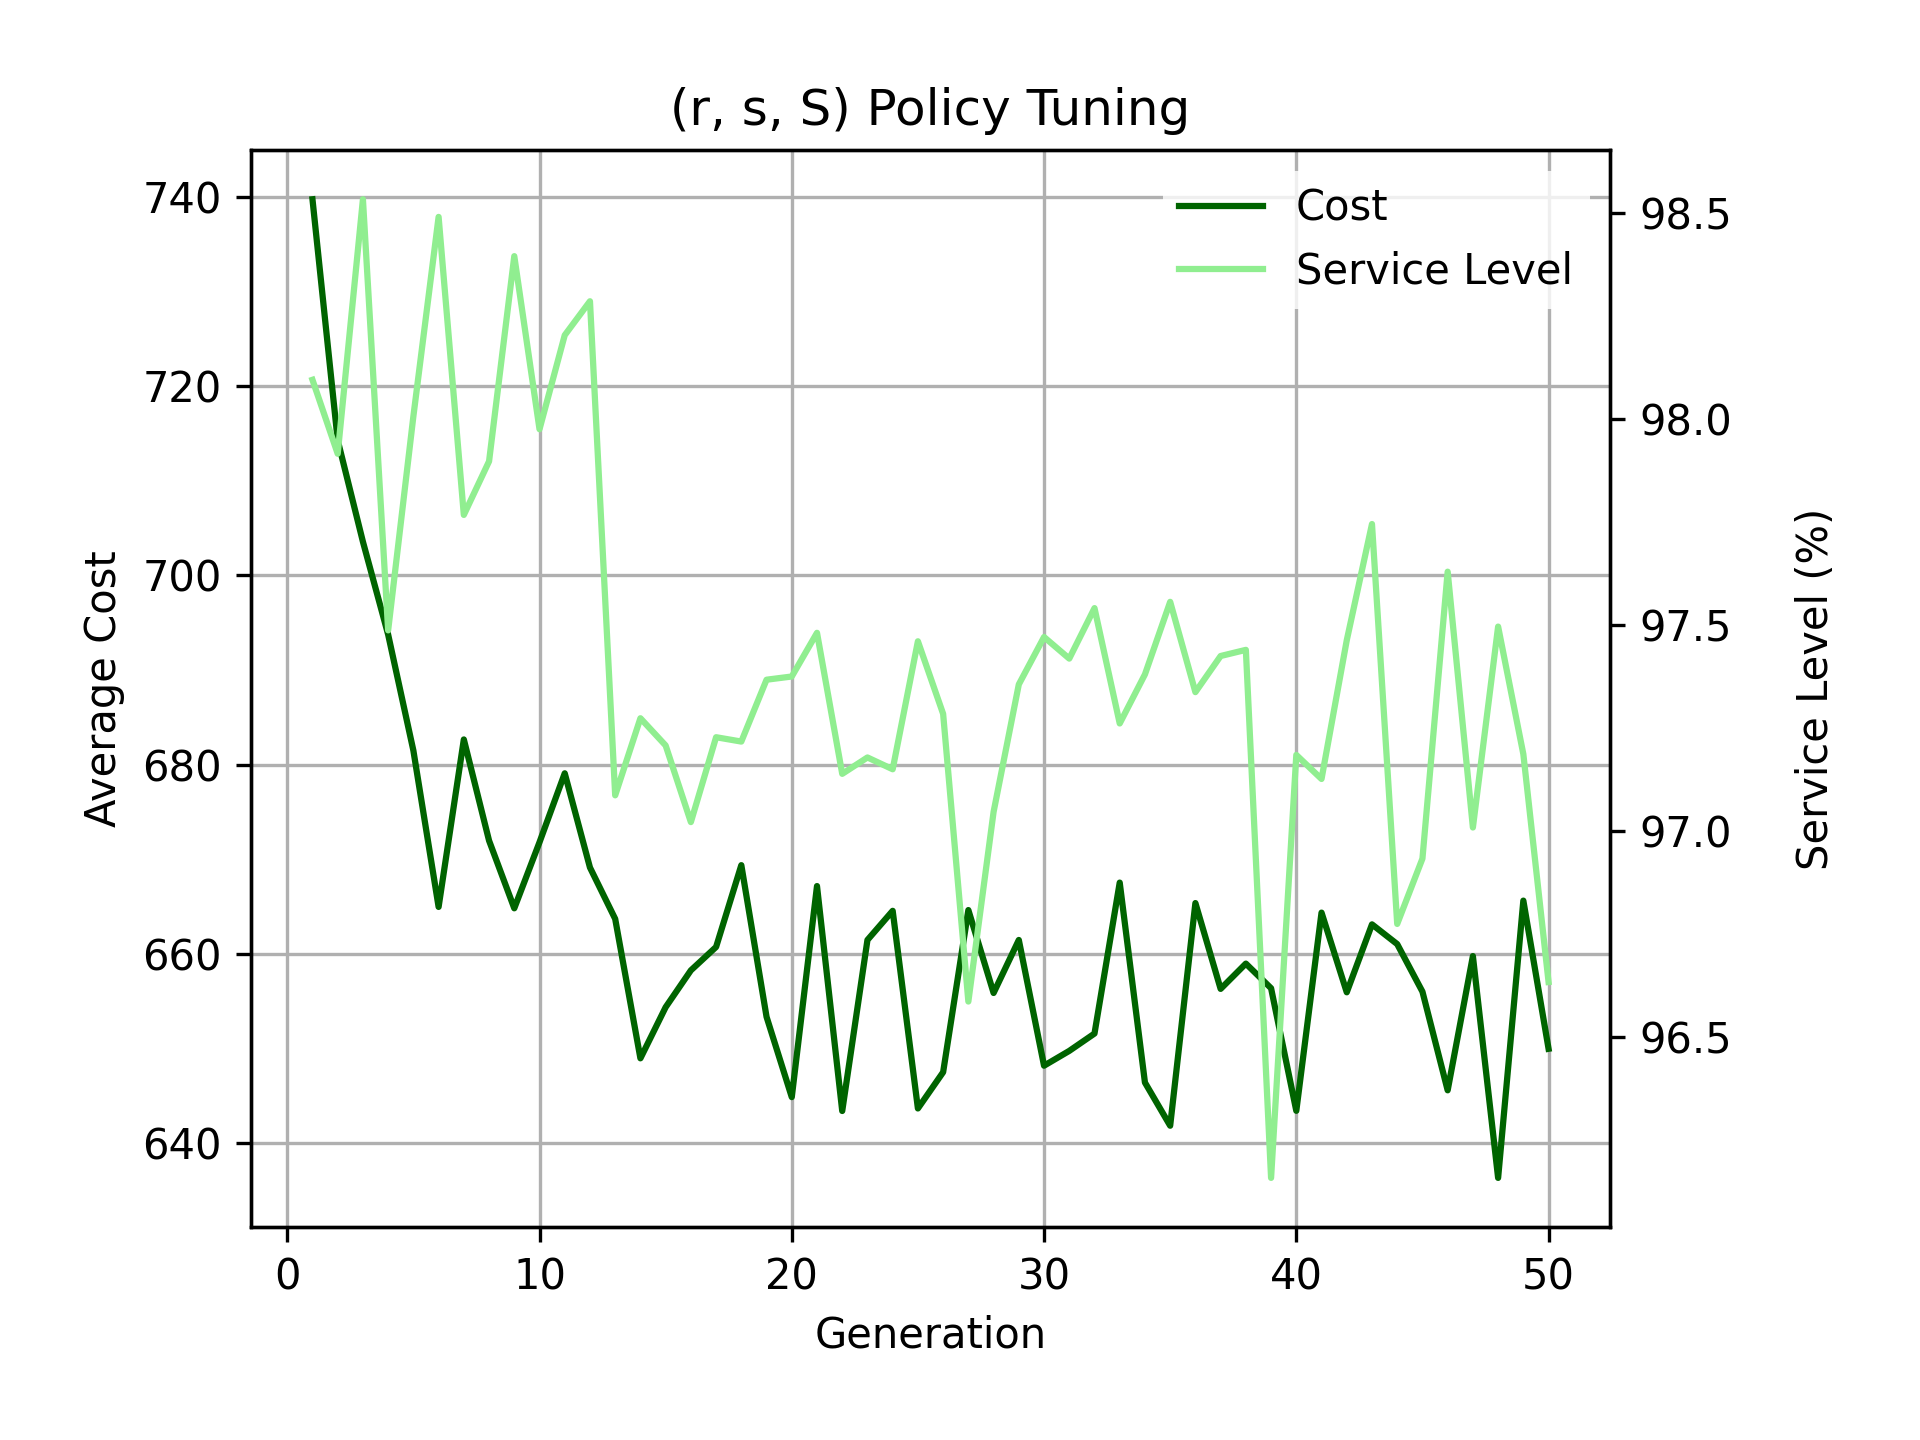
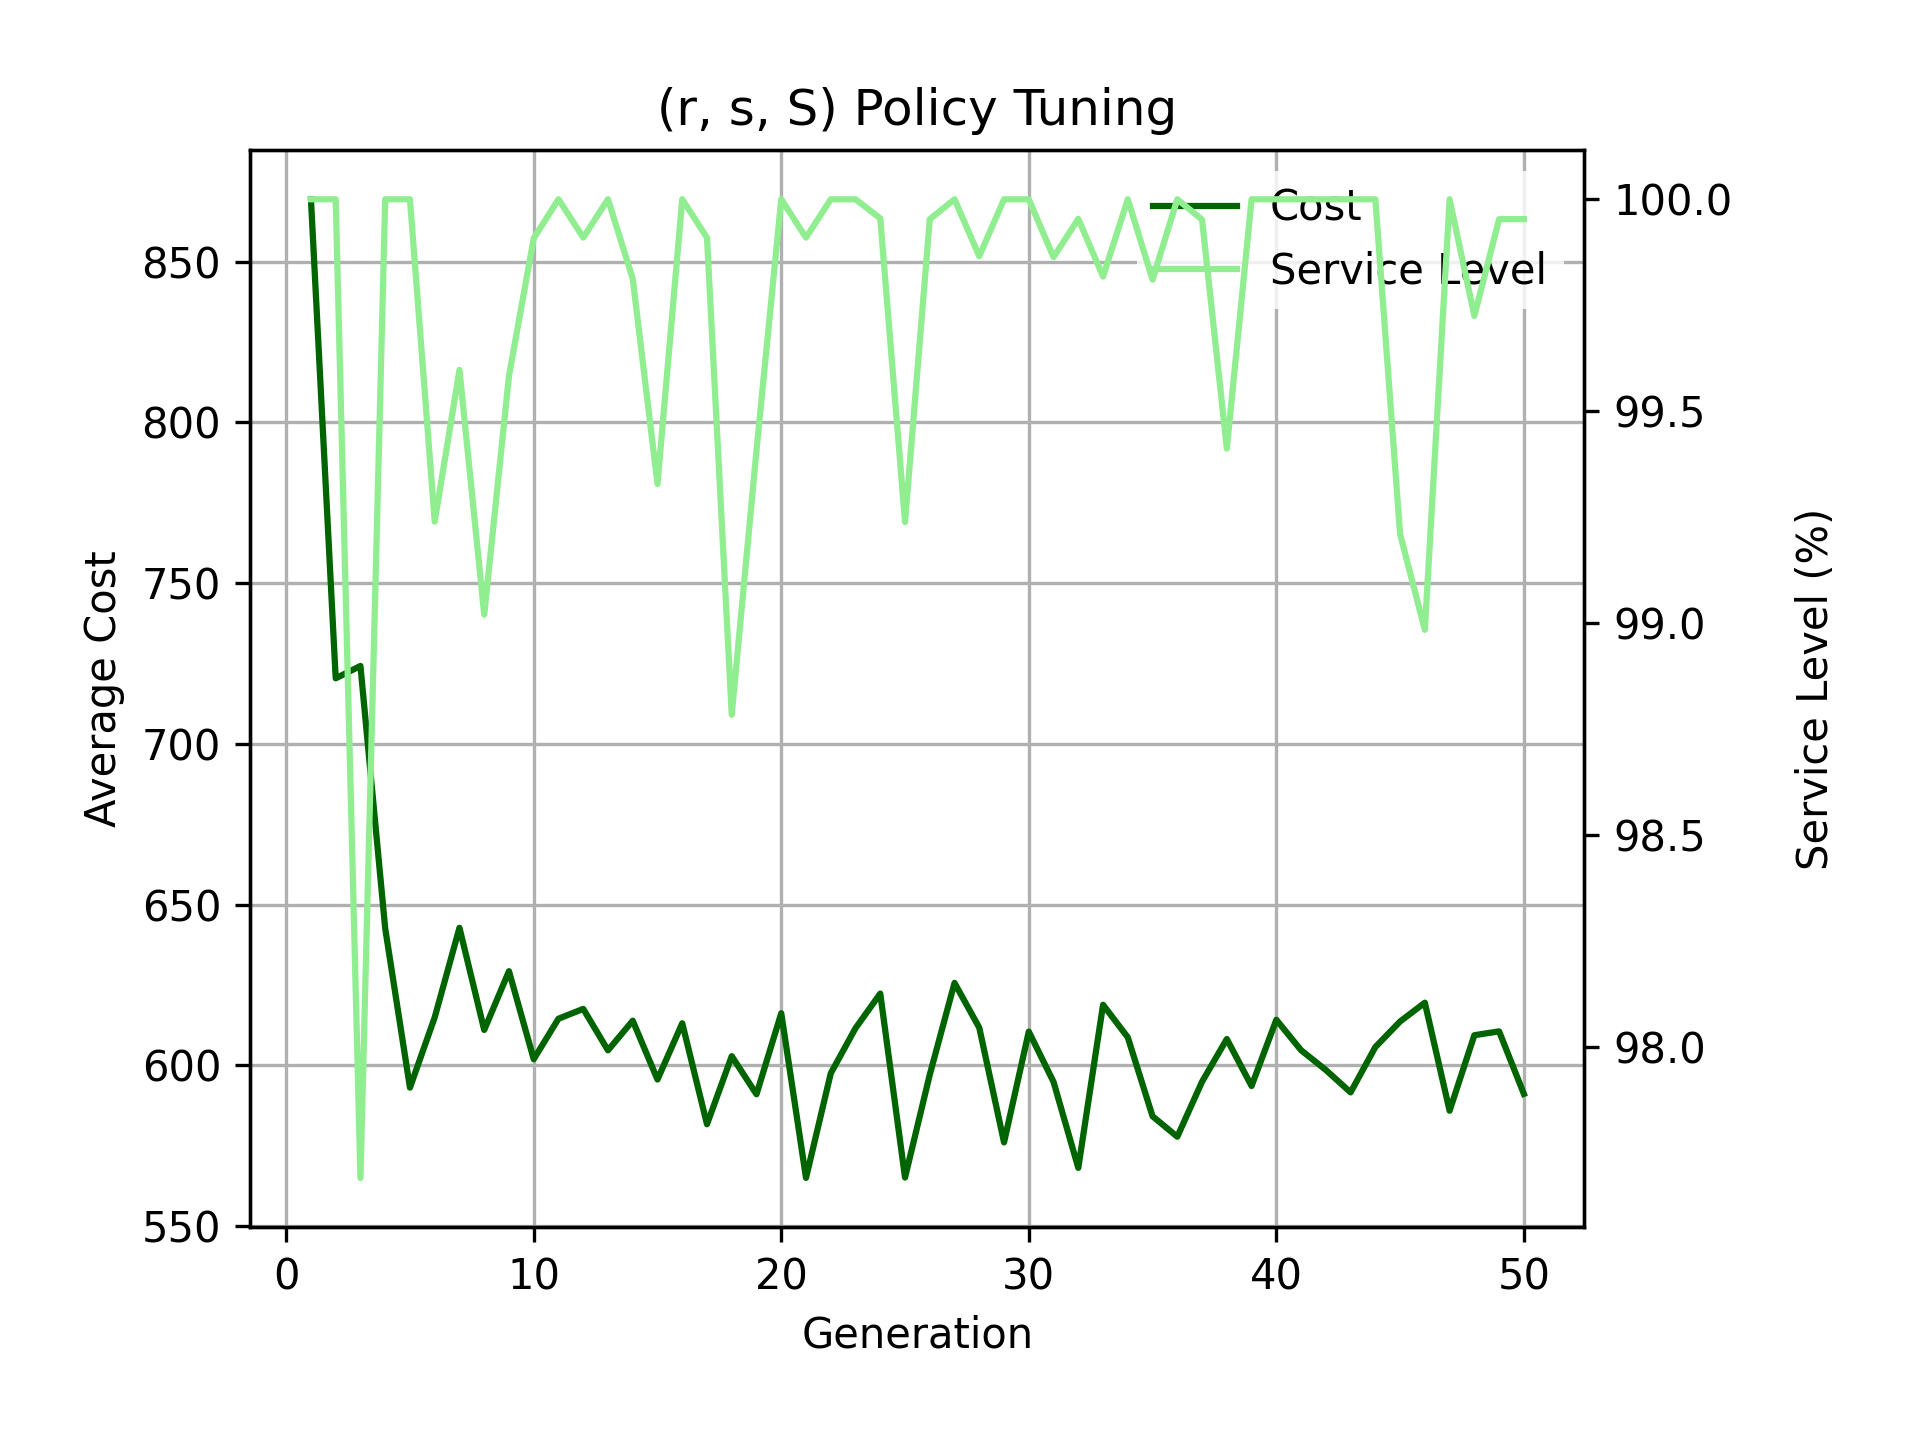
adjusted logic to suit deep reinforcement learning comparison

diff --git a/PeriodicReview_JointReplenishment/src/PeriodicReview_JointReplenishment/simulation.py b/PeriodicReview_JointReplenishment/src/PeriodicReview_JointReplenishment/simulation.py
@@ -75,9 +75,8 @@ def simulate_policy(demand_distribution, policies, setup):
             if demand < 0:
                 raise ValueError("demand cannot be negative!")
 
-            inventory_level[i] -= demand
+            inventory_level[i] -= pipeline_inventory[i,0] - demand
             inventory_position[i] -= demand
-            inventory_level[i] = max(0, inventory_level[i])
 
             r, s, S = policies[i]
 
@@ -91,7 +90,6 @@ def simulate_policy(demand_distribution, policies, setup):
                     pipeline_inventory[i, lead_time - 1] += order_quantity
         
         # Update pipeline inventory
-        inventory_level += pipeline_inventory[:, 0]
         pipeline_inventory[:, 0] = 0
         pipeline_inventory = np.roll(pipeline_inventory, shift=-1, axis=1)
 
@@ -114,14 +112,14 @@ def simulate_policy(demand_distribution, policies, setup):
 
             total_demand += demand
             inventory_position[i] -= demand
+            inventory_level[i] -= pipeline_inventory[i,0] - demand
 
             if inventory_level[i] >= demand:
                 total_demand_met += demand
-                inventory_level[i] -= demand
             else:
-                total_demand_met += inventory_level[i]  # Partial demand fulfillment
+                total_demand_met += max(0,inventory_level[i])  # Partial demand fulfillment
                 total_cost += (demand-inventory_level[i]) * backorder_cost # more like a penalty cost
-                inventory_level[i] = 0  # Set inventory level to zero
+                #inventory_level[i] = 0  # Set inventory level to zero
 
             r, s, S = policies[i]
                 
@@ -136,7 +134,8 @@ def simulate_policy(demand_distribution, policies, setup):
         
         # Add holding costs
         for i in range(num_items):
-            total_cost += inventory_level[i] * holding_cost
+            if inventory_level[i] > 1:
+                total_cost += inventory_level[i] * holding_cost
         
         # Add ordering costs
         if np.any(pipeline_inventory[:, -1] != 0):
@@ -148,17 +147,17 @@ def simulate_policy(demand_distribution, policies, setup):
             # Update container fill rate, total container and order counter metrics
             total_orders += 1
             total_containers += np.ceil(total_volume / container_volume)
-            container_fill_rate += total_volume / container_volume / np.ceil(total_volume / container_volume)
+            container_fill_rate += total_volume / (container_volume * np.ceil(total_volume / container_volume))
             
         # Update pipeline inventory
-        inventory_level += pipeline_inventory[:, 0]
         pipeline_inventory[:, 0] = 0
         pipeline_inventory = np.roll(pipeline_inventory, shift=-1, axis=1)
 
     # Calculate the metrics
     service_level = 100 * (total_demand_met / total_demand) if total_demand > 0 else 1.0
-    container_fill_rate = container_fill_rate / total_orders if total_orders > 0 else 0
+    containers_per_order = total_containers / total_orders if total_orders > 0 else 0
+    container_fill_rate = container_fill_rate / total_containers if total_orders > 0 else 0
     periodicity = np.float64(total_orders / num_samples)
     total_cost = total_cost / num_samples
 
-    return total_cost, service_level, container_fill_rate, periodicity
+    return total_cost, service_level, container_fill_rate, periodicity, containers_per_order

diff --git a/PeriodicReview_JointReplenishment/src/PeriodicReview_JointReplenishment/genetic_algorithm.py b/PeriodicReview_JointReplenishment/src/PeriodicReview_JointReplenishment/genetic_algorithm.py
@@ -21,7 +21,7 @@ def initialize_population(pop_size, num_items, setup):
     """
     population = []
 
-    max_r = setup['max_r']
+    r = setup['r']
     max_s = setup['max_s']
     max_S = setup['max_S']
 
@@ -29,7 +29,6 @@ def initialize_population(pop_size, num_items, setup):
     for _ in range(pop_size):
         policies = []
         for _ in range(num_items):
-            r = random.randint(1, max_r)
             s = random.randint(1, max_s)
             S = random.randint(s + 1, max_S)  # Ensure 's' is smaller than 'S'
             policies.append([r, s, S])
@@ -61,9 +60,9 @@ def evaluate_fitness(population, demand_distribution, setup):
         
         # Collect results as they finish
         for future in concurrent.futures.as_completed(futures):
-            cost, service_level, container_fill_rate, periodicity = future.result()
+            cost, service_level, container_fill_rate, periodicity, containers_per_order = future.result()
             # Add the policy, cost, and service level to the fitness_scores list
-            fitness_scores.append((population[futures.index(future)], cost, service_level, container_fill_rate, periodicity))
+            fitness_scores.append((population[futures.index(future)], cost, service_level, container_fill_rate, periodicity, containers_per_order))
 
     # Sort by the cost (using the external function instead of lambda)
     fitness_scores.sort(key=sort_by_cost)
@@ -137,7 +136,7 @@ def crossover(parents, num_offspring):
         child = []
         
         for p1_item, p2_item in zip(parent1, parent2):
-            r = random.choice([p1_item[0], p2_item[0]]) # Select from either parent
+            r = random.choice([p1_item[0], p2_item[0]]) # will be the same
             s = random.choice([p1_item[1], p2_item[1]])
             S = random.choice([p1_item[2], p2_item[2]])
 
@@ -167,7 +166,7 @@ def mutate(offspring, mutation_rate, setup):
         list: A list of mutated policy combinations.
     """
 
-    max_r = setup['max_r']
+    r = setup['r']
     max_s = setup['max_s']
     max_S = setup['max_S']
 
@@ -176,7 +175,6 @@ def mutate(offspring, mutation_rate, setup):
         if random.random() < mutation_rate:
             item_index = random.randint(0, len(policies) - 1)
 
-            r = random.randint(1, max_r)
             s = random.randint(1, max_s)
             S = random.randint(s + 1, max_S)  # Ensure 's' is smaller than 'S'
             policies[item_index] = [r, s, S]

diff --git a/PeriodicReview_JointReplenishment/src/PeriodicReview_JointReplenishment/main.py b/PeriodicReview_JointReplenishment/src/PeriodicReview_JointReplenishment/main.py
@@ -24,13 +24,13 @@ def main():
     # Save the best policies to a .txt file
     with open('best_policies.txt', 'w') as file:
         file.write("Best Policies, Costs, and Service Levels:\n")
-        for policies, cost, service_level, container_fill_rate, periodicity in best_policies:
-            file.write(f"Policies: {policies}, Cost = {cost:.2f}, Service Level = {service_level:.2f}%, Fill Rate = {container_fill_rate:.2f}%, Periodicity = {periodicity:.2f}\n")
+        for policies, cost, service_level, container_fill_rate, periodicity, containers_per_order in best_policies:
+            file.write(f"Policies: {policies}, Cost = {cost:.2f}, Service Level = {service_level:.2f}%, Fill Rate = {container_fill_rate:.2f}, Periodicity = {periodicity:.3f}, Containers per Order = {containers_per_order:.2f}\n")
     
     # Print the top 10 best policies along with their costs and service levels
     print("Top 10 Best Policies, Costs, and Service Levels:")
-    for policies, cost, service_level, container_fill_rate, periodicity in best_policies:
-        print(f"Policies: {policies}, Cost = {cost:.2f}, Service Level = {service_level:.2f}%, Fill Rate = {container_fill_rate:.2f}%, Periodicity = {periodicity:.3f}")
+    for policies, cost, service_level, container_fill_rate, periodicity, containers_per_order in best_policies:
+        print(f"Policies: {policies}, Cost = {cost:.2f}, Service Level = {service_level:.2f}%, Fill Rate = {container_fill_rate:.2f}, Periodicity = {periodicity:.3f}, Containers per Order = {containers_per_order:.2f}")
 
 if __name__ == "__main__":
     main()
